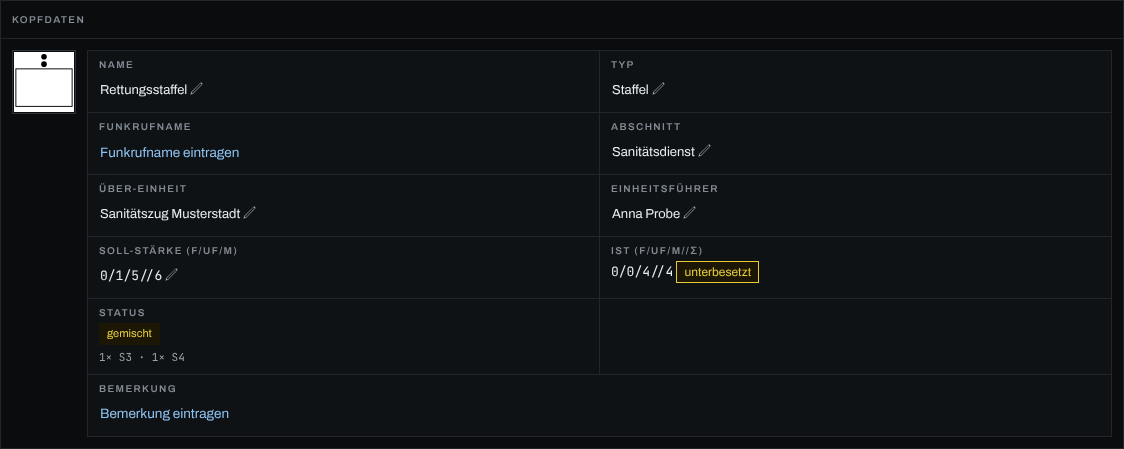
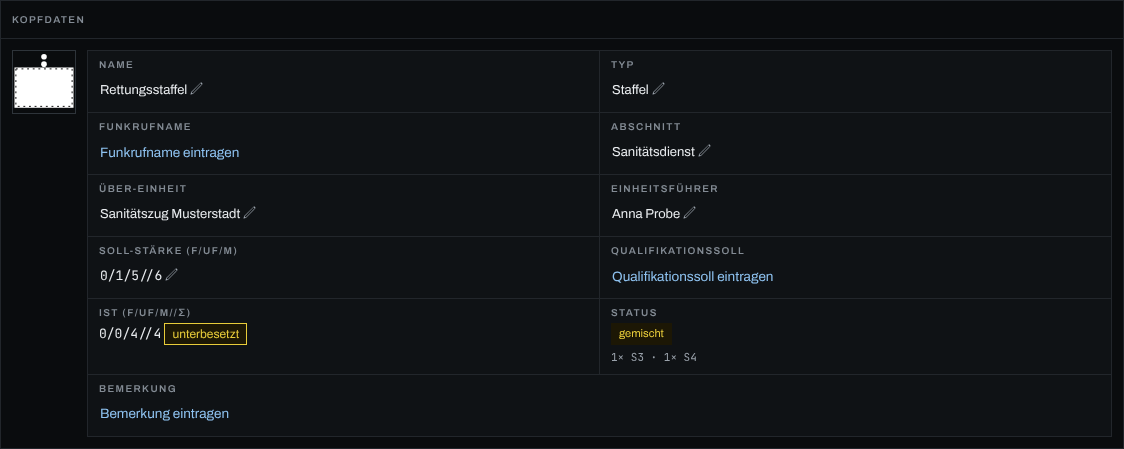
fix(stammdaten): Review-Befunde zum Qualifikationssoll
- Vorlage: JSX-Kommentar rendert nicht mehr als Text, Qualifikationssoll-Feld
  kennt die Labels deaktivierter Qualifikationen (bekannt)
- Migration 0276: quali_soll nimmt nur eine JSON-Liste an, Test deckt '{}' ab
- Anwenderdoku: Hinweis, wann bestehende Organisationen die Ketten bekommen
- Doku-Bild Kopf der Einheit mit Zeile „Qualifikationssoll“ neu erzeugt

LLH-1553

Claude-Session: https://claude.ai/code/session_01BgRwpZgKC4eugjJJw7SW8e

diff --git a/frontend/src/stammdaten/EinheitVorlageDetailPage.tsx b/frontend/src/stammdaten/EinheitVorlageDetailPage.tsx
@@ -402,7 +402,7 @@ function DetailContent({
           </Formularpaneel>
 
           <Formularpaneel titel="Soll">
-            <SollField typen={typen} />
+            <SollField typen={typen} vorlage={vorlage} />
           </Formularpaneel>
 
           <Formularpaneel titel="Freitext">
@@ -471,7 +471,7 @@ function ZeichenVorschau({ typen }: { typen: EinheitTyp[] }) {
 }
 
 /** Eigenes Soll; leer gilt das des gewählten Typs, und das steht als Vorgabe darunter. */
-function SollField({ typen }: { typen: EinheitTyp[] }) {
+function SollField({ typen, vorlage }: { typen: EinheitTyp[]; vorlage: EinheitVorlage }) {
   const form = Form.useFormInstance<FormValues>();
   const typId = Form.useWatch('typ_id', form);
   const soll = Form.useWatch('soll', form);
@@ -481,8 +481,8 @@ function SollField({ typen }: { typen: EinheitTyp[] }) {
   const typQualiSoll = qualiSollText(typ?.quali_soll);
   return (
     <>
-      // EIN `Form.Item` für das Trio: der Server prüft „alle drei oder keiner“ (Muster //
-      `FahrzeugDetailPage`).
+      {/* EIN `Form.Item` für das Trio: der Server prüft „alle drei oder keiner“ (Muster
+          `FahrzeugDetailPage`). */}
       <Form.Item
         label="Soll-Stärke"
         name="soll"
@@ -499,7 +499,8 @@ function SollField({ typen }: { typen: EinheitTyp[] }) {
             : undefined
         }
       >
-        <QualiSollFeld />
+        {/* Labels deaktivierter Qualifikationen aus dem eigenen Soll (LLH-1553). */}
+        <QualiSollFeld bekannt={vorlage.quali_soll_eigen ? vorlage.quali_soll : null} />
       </Form.Item>
     </>
   );

diff --git a/src/db.rs b/src/db.rs
@@ -12414,6 +12414,10 @@ mod tests {
         .execute(&pool)
         .await
         .expect_err("einheit_typ.quali_soll nur JSON");
+        sqlx::query("INSERT INTO einheit_typ (org_id, label, quali_soll) VALUES (1, 'Y', '{}')")
+            .execute(&pool)
+            .await
+            .expect_err("einheit_typ.quali_soll nur als Liste");
         sqlx::query(
             "INSERT INTO einheit_vorlage (org_id, name, typ_id, quali_soll) VALUES (1, 'V', ?, '[')",
         )

diff --git a/docs/anwender/kapitel/stammdaten.md b/docs/anwender/kapitel/stammdaten.md
@@ -323,6 +323,9 @@ spätere Änderung am Stamm gilt nur für neue Dispositionen.
   einmal.
 - Eine deaktivierte Qualifikation bleibt in Ketten und in einem bestehenden Soll wirksam.
 - Wer eine Einheit aus einer Vorlage bildet, bekommt deren eigenes Qualifikationssoll mit.
+- Die Ketten der Startliste gelten für neue Organisationen. Bestehende Organisationen haben sie
+  beim Update nur bekommen, wo beide Bezeichnungen genau so lauten und noch kein Einschluss gesetzt
+  war; eine Qualifikation wie „Rettungssanitäter/in“ bleibt ohne Kette.
 
 ### Einheiten-Vorlagen
 
